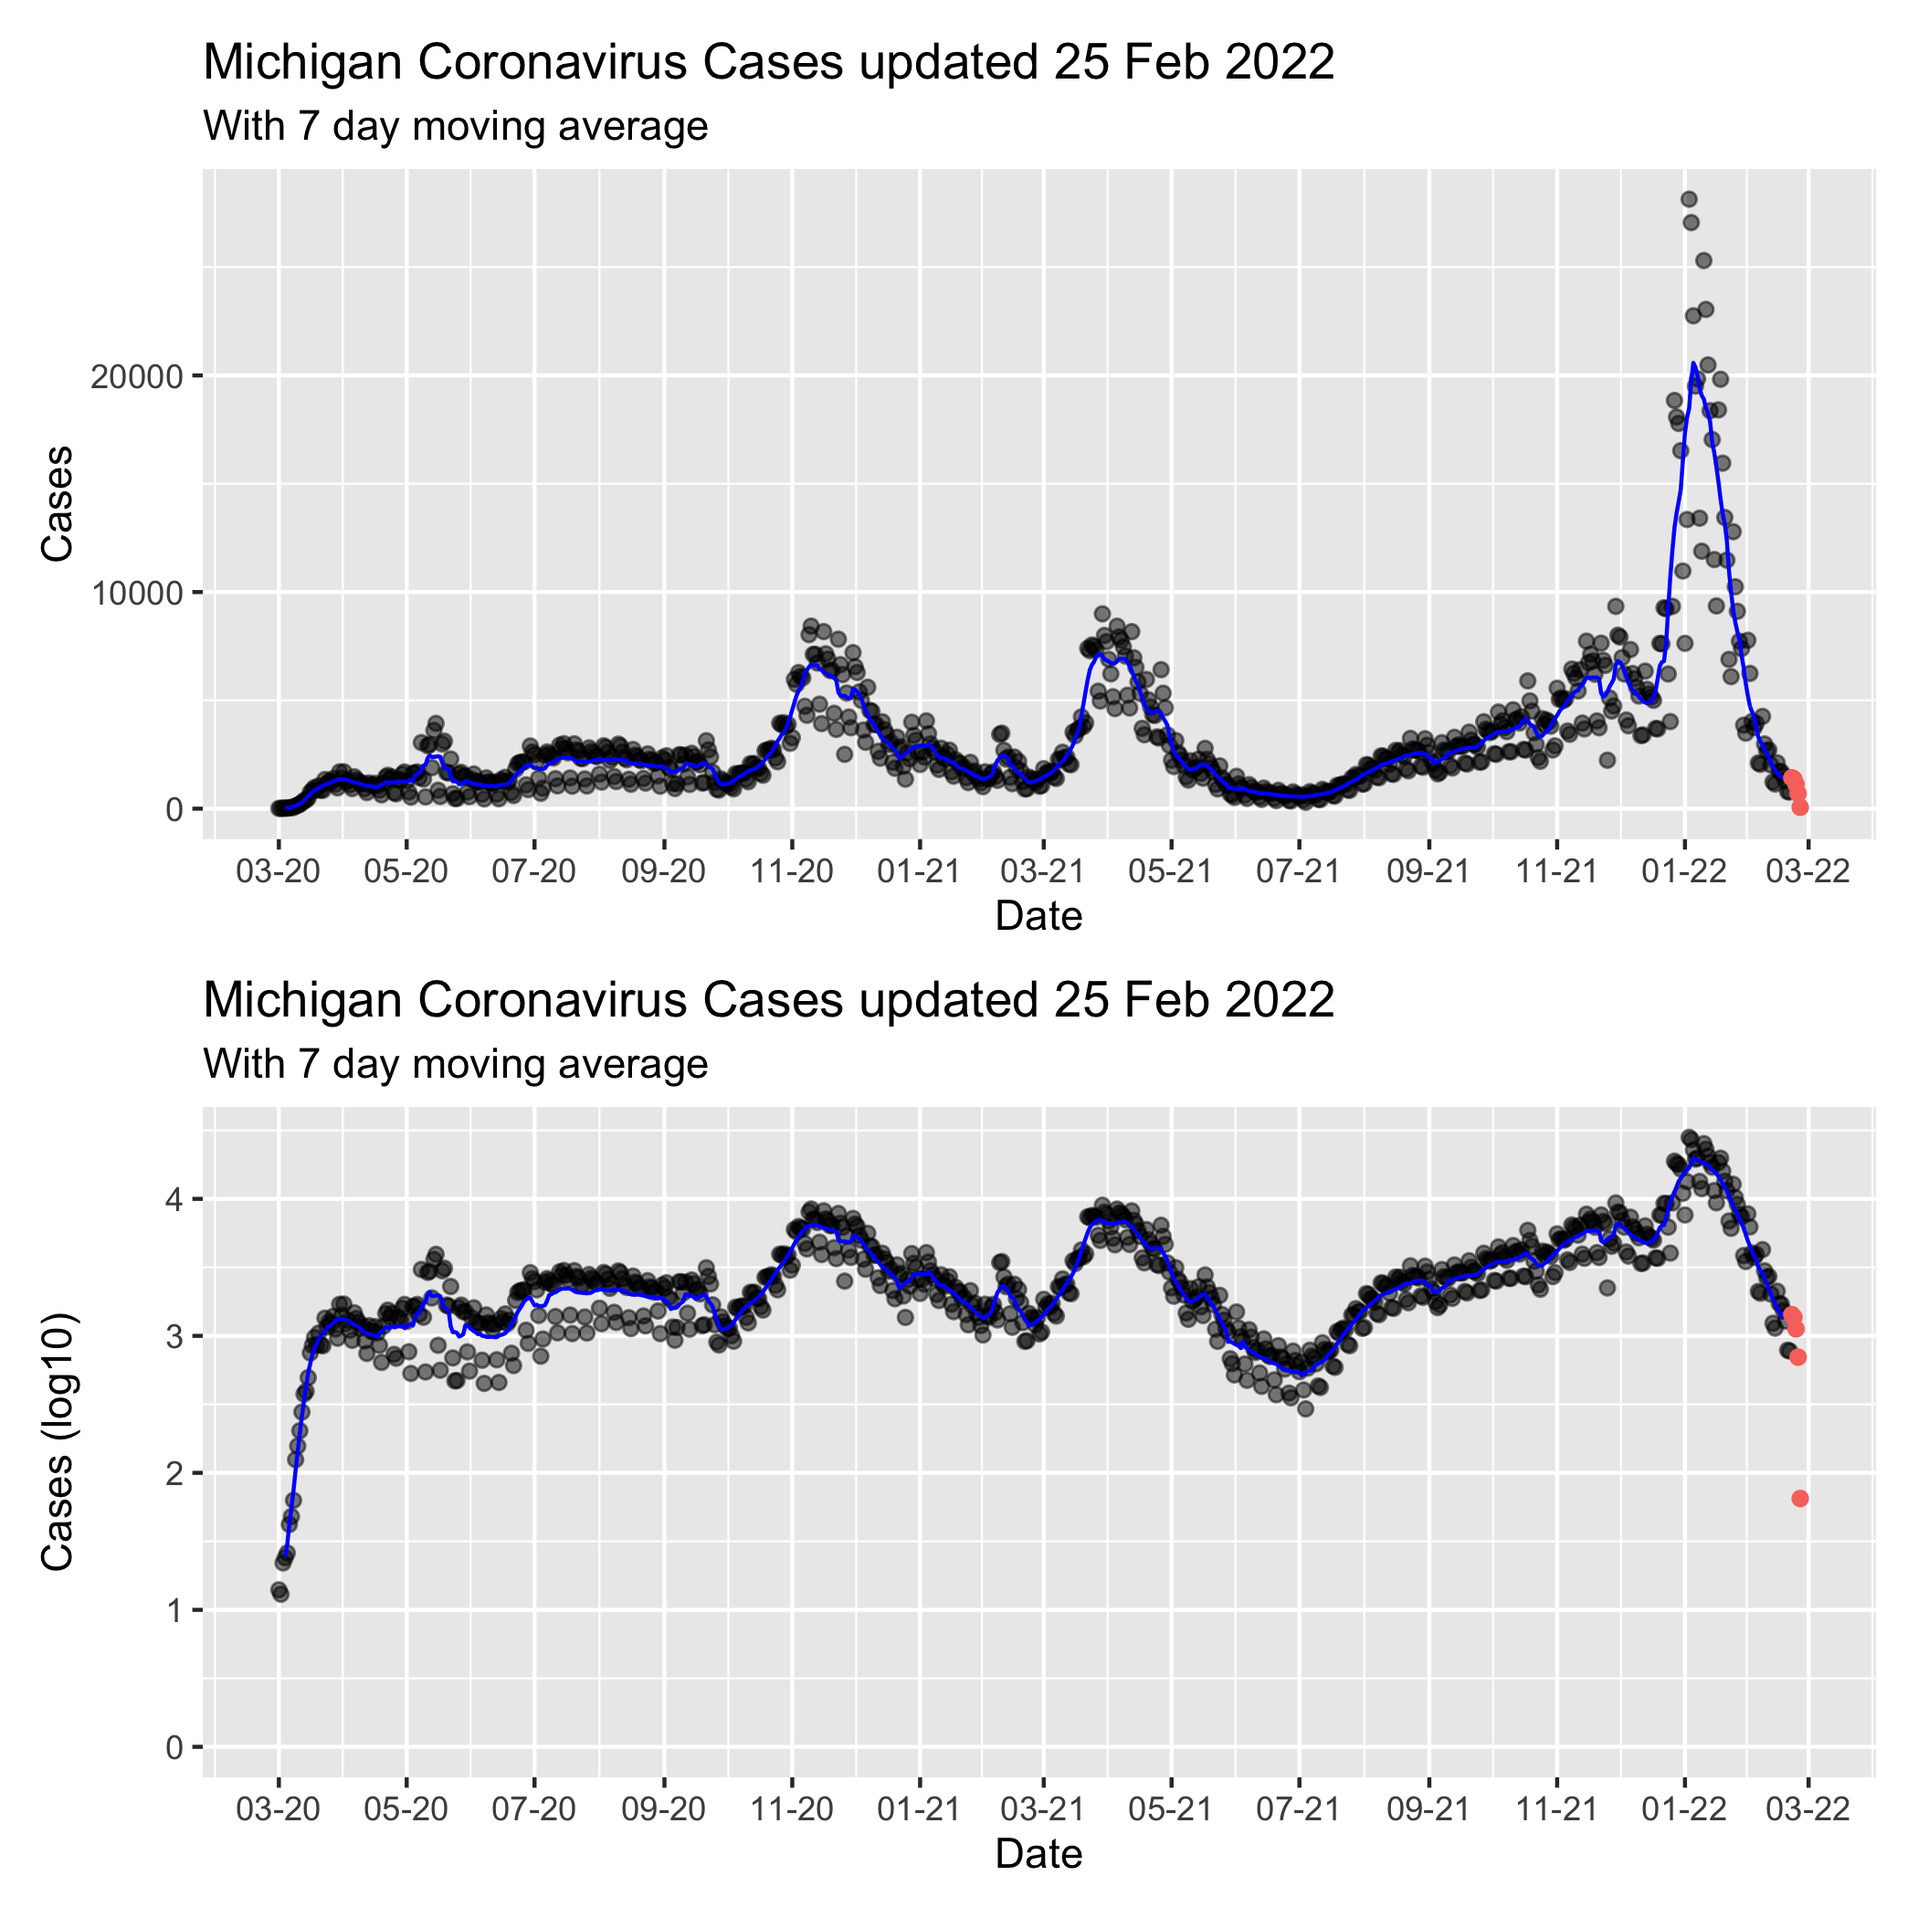
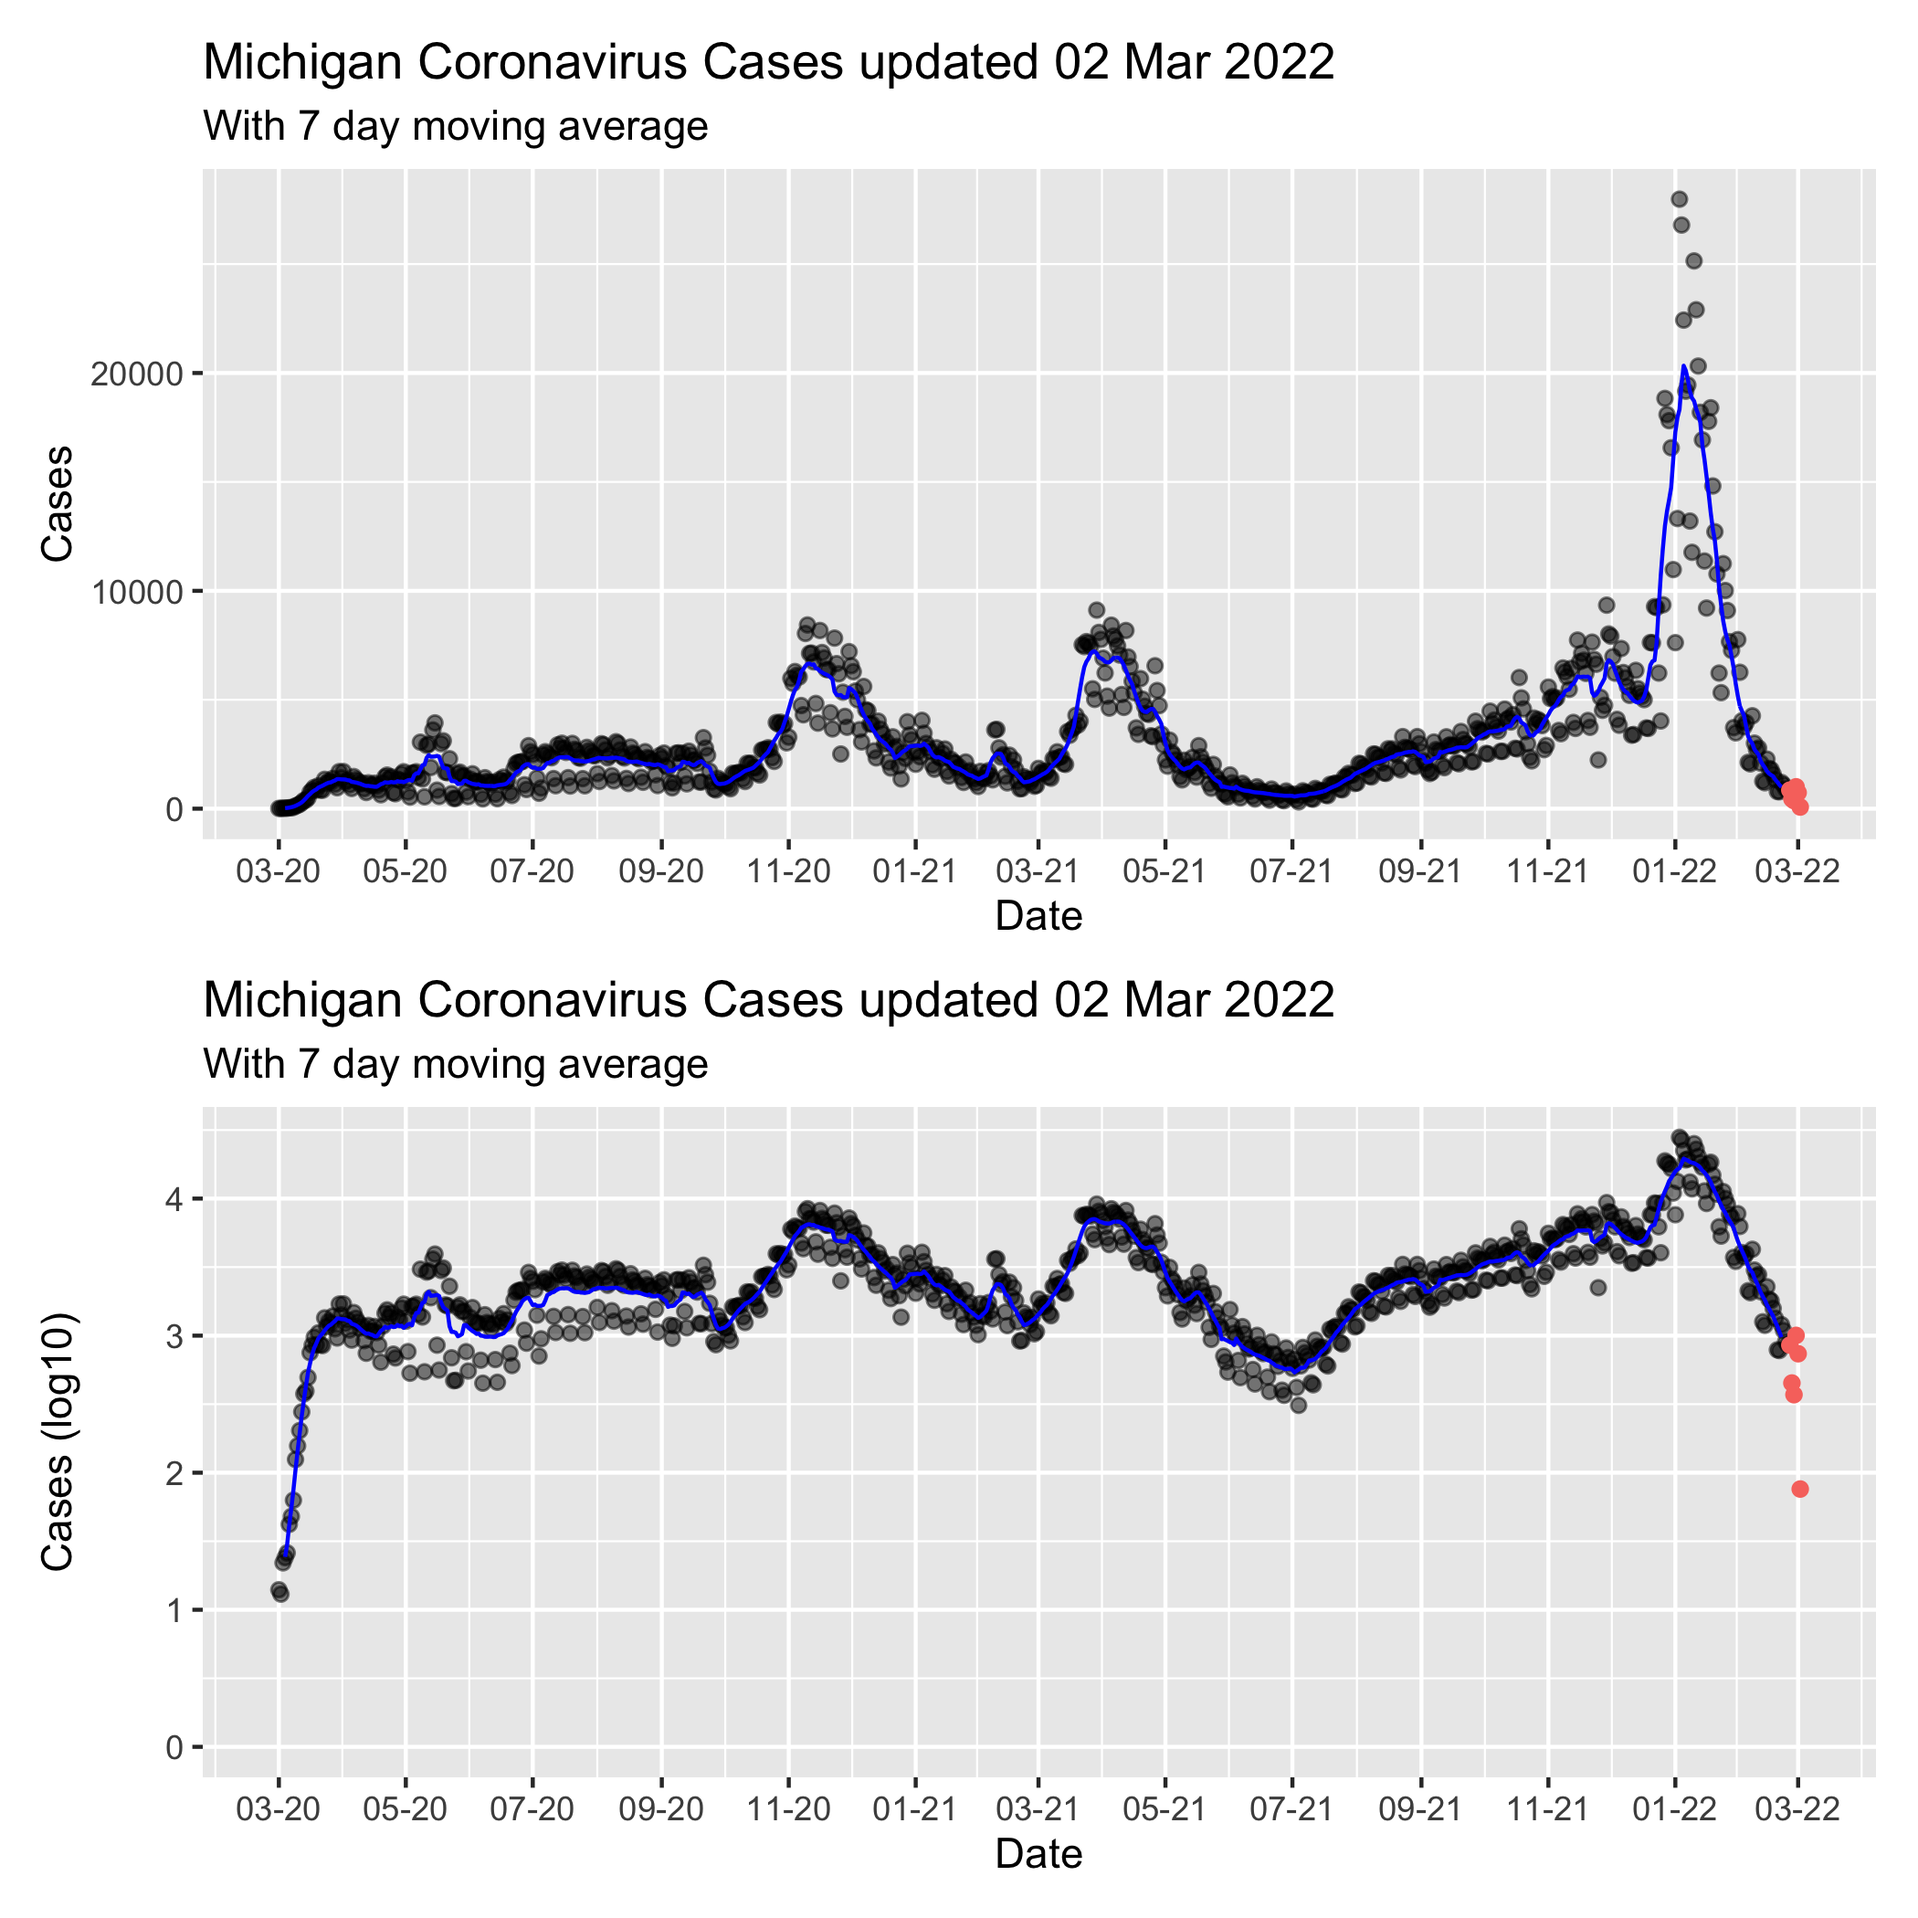
Mar-03 2022 18:23 update

diff --git a/MiCorona.md b/MiCorona.md
@@ -1,7 +1,7 @@
 Michigan COVID Data
 ================
 Adam D. DenHaan
-Feb 27, 2022
+Mar 03, 2022
 
 Get link for data:
 
@@ -49,11 +49,11 @@ mi_data.head()
     ## 4  Alcona 2020-03-05   Confirmed    0.0     0.0               0.0   
     ## 
     ##    Deaths.Cumulative                       Updated  
-    ## 0                0.0 2022-02-25 13:54:33.207500032  
-    ## 1                0.0 2022-02-25 13:54:33.207500032  
-    ## 2                0.0 2022-02-25 13:54:33.207500032  
-    ## 3                0.0 2022-02-25 13:54:33.207500032  
-    ## 4                0.0 2022-02-25 13:54:33.207500032
+    ## 0                0.0 2022-03-02 14:18:03.727500032  
+    ## 1                0.0 2022-03-02 14:18:03.727500032  
+    ## 2                0.0 2022-03-02 14:18:03.727500032  
+    ## 3                0.0 2022-03-02 14:18:03.727500032  
+    ## 4                0.0 2022-03-02 14:18:03.727500032
 
 ``` python
 max_date = max(mi_data["Updated"])
@@ -135,5 +135,5 @@ viz_function(mi_cases_by_day_exclusive, mi_cases_by_day_last4, Date, Deaths, ver
 
 ![](MiCorona_files/figure-gfm/viz2-1.png)<!-- -->
 
-Note that the last 5 days of data have been colored red on the graph, as
+Note that the last 6 days of data have been colored red on the graph, as
 they frequently change as more information becomes available.
